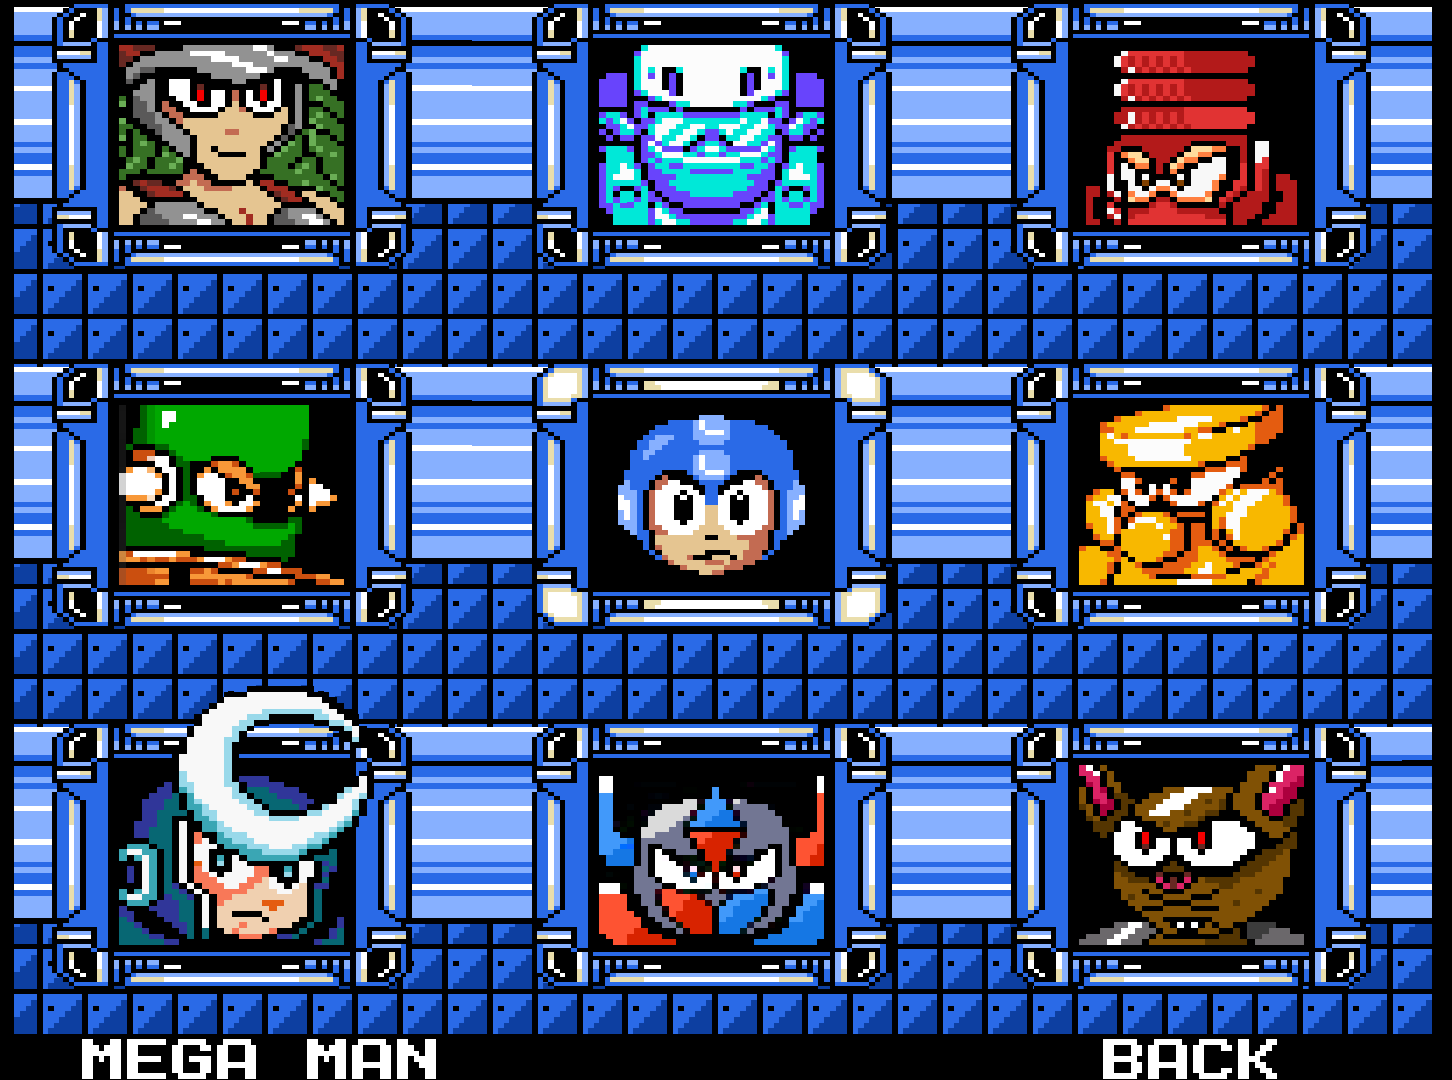
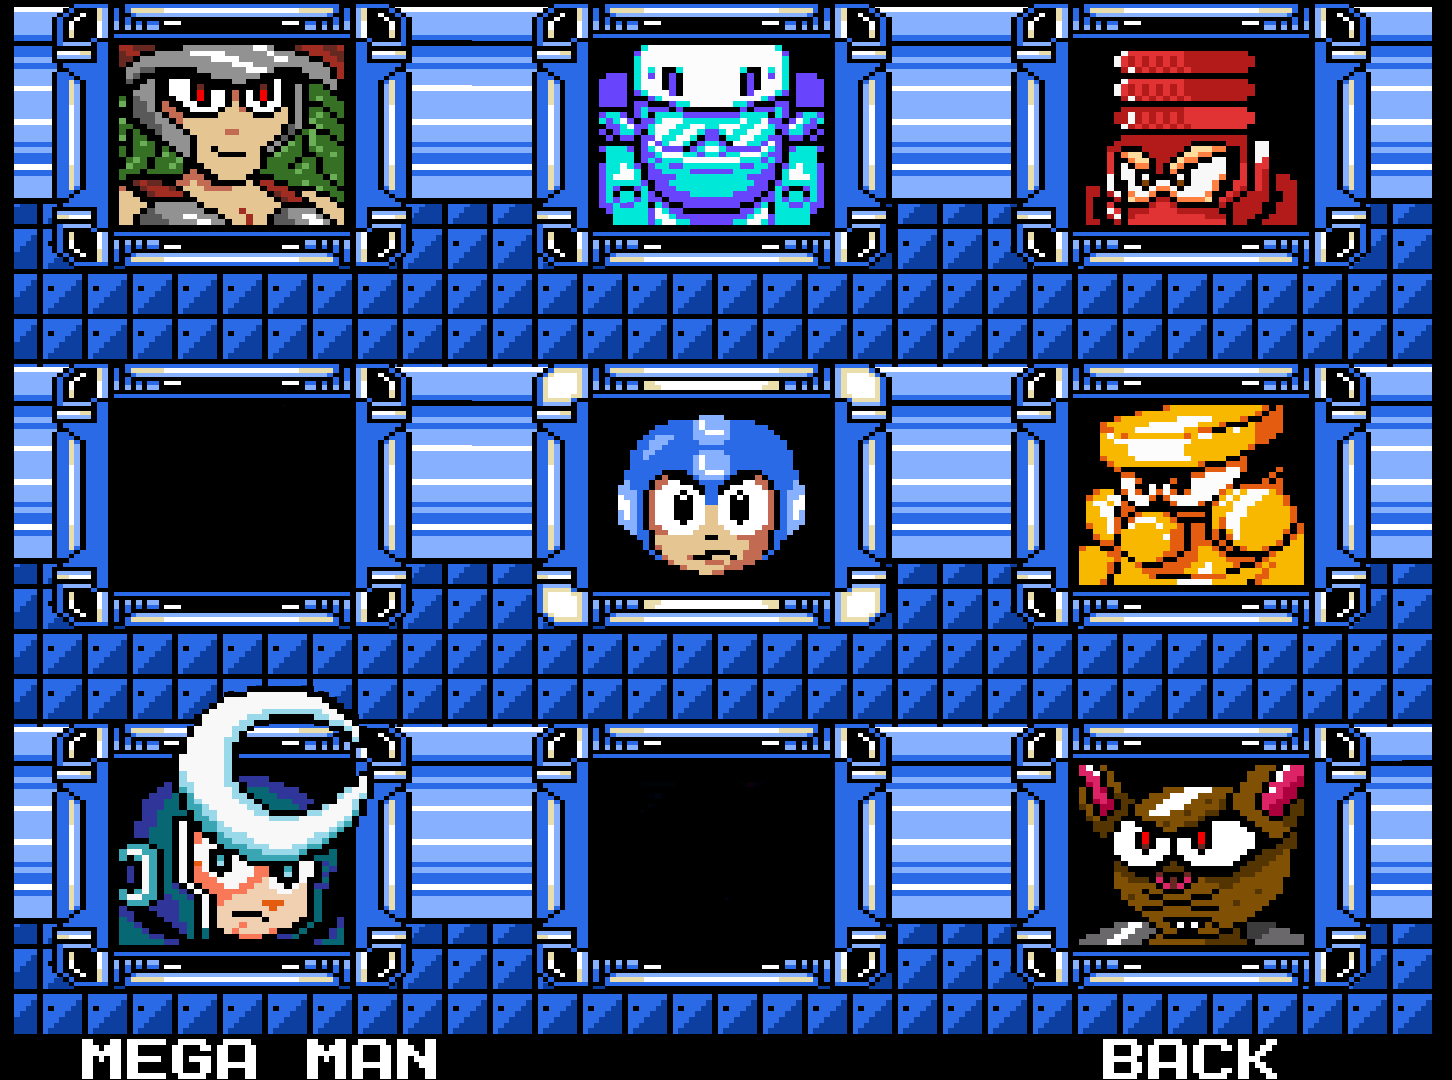
Remove desert man and polarity man from bosses

Changed region(s): [[0.4029, 0.7028, 0.5888, 0.8861], [0.062, 0.3667, 0.2479, 0.55]]

diff --git a/core/src/com/megaman/maverick/game/entities/bosses/BossType.java b/core/src/com/megaman/maverick/game/entities/bosses/BossType.java
@@ -150,7 +150,7 @@ public enum BossType {
         }
     },
 
-    POLARITY_MAN("Polarity Man", Level.TEST1, Position.BOTTOM_CENTER, TextureAsset.BOSSES) {
+    DISTRIBUTOR_MAN("Distributor Man", Level.TEST1, Position.BOTTOM_CENTER, TextureAsset.BOSSES) {
         @Override
         public Vector2 getSpriteSize() {
             return new Vector2(2.85f, 2.5f);

diff --git a/README.md b/README.md
@@ -135,8 +135,6 @@ Megaman Weapon Get Sprite - [PixelBoy127](https://www.spriters-resource.com/cust
 - Moon Man - [boberatu](https://www.deviantart.com/boberatu/art/MPN-006-Moon-Man-625679636)
 - Glacier Man - [Balloon Cart](https://balloon-cart.itch.io/glacier-man-asset-pack)
 - Inferno Man - [boberatu](https://www.deviantart.com/boberatu/art/MPN-000-Volcano-Man-313694441)
-- Polarity man - [pharos04](https://www.deviantart.com/pharos04/art/Polarity-Man-ORN-010-570273324)
-- Desert Man - [rcrdcat](https://www.deviantart.com/rcrdcat/art/Desert-Man-Spritesheet-Mugshot-332165249)
 - Bospider - [Bean and Shawn](https://www.spriters-resource.com/game_boy_gbc/mmxtreme/sheet/480/?source=genre)
 - Guts Tank - [Mister Mike](https://www.spriters-resource.com/nes/mm2/sheet/2317/)
 - Mecha Dragon - [Mister Mike](https://www.spriters-resource.com/nes/mm2/sheet/2317/)
